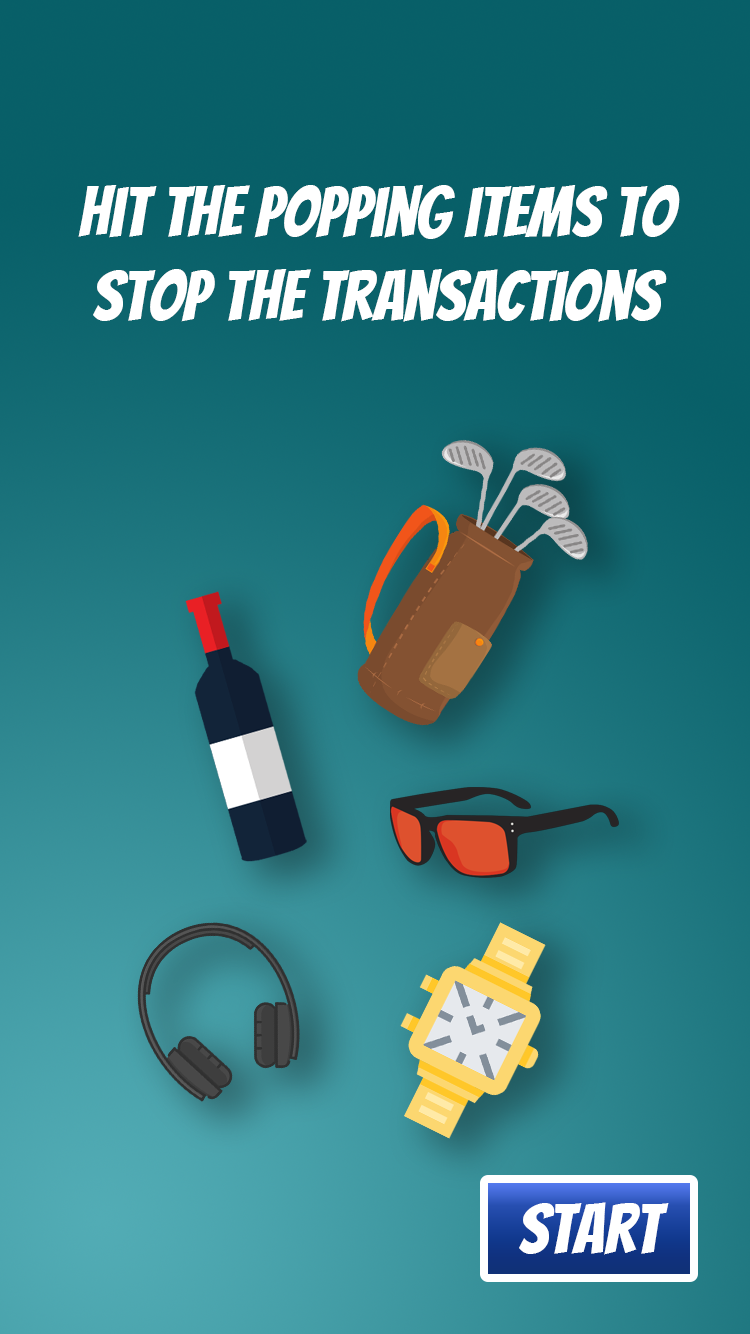
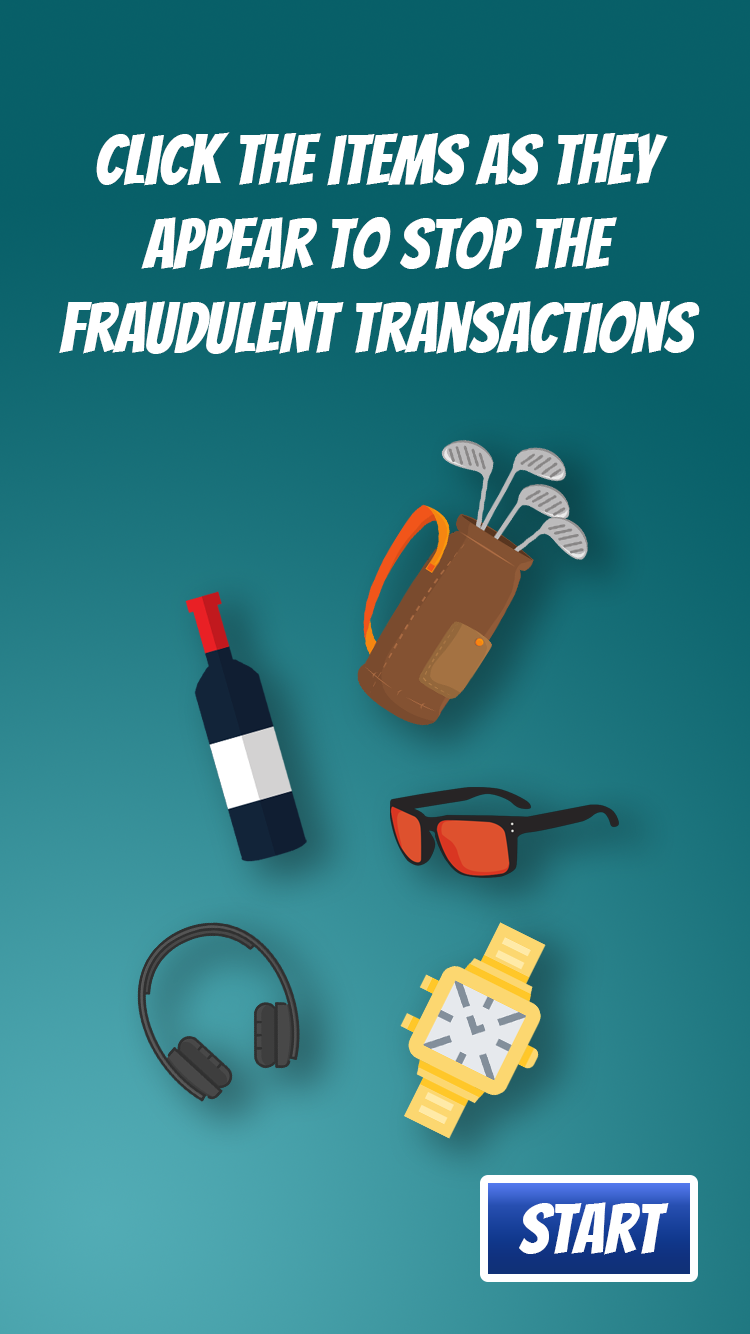
update wack-wack game

Changed region(s): [[0.0613, 0.0922, 0.9507, 0.2766]]

diff --git a/games/wack-wack/game/default/object.js b/games/wack-wack/game/default/object.js
@@ -1,1 +1,1 @@
-pgf.jsonp("object", {"@":"game","version":"0.25","hash":615242744,"title":"wack-a-mole","attributes":{"name":"default name","displaySize":{"width":414,"height":736},"actorTags":"","randomSeed":-1,"adReward":{"name":"","value":0},"playerType":1,"player1 Keymap":{"dpadUp":"","dpadDown":"","dpadLeft":"","dpadRight":"","buttonX":"","buttonY":"","buttonA":"","buttonB":"","start":"","select":"","leftShoulder1":"","rightShoulder1":"","leftShoulder2":"","rightShoulder2":"","leftStickClick":"","rightStickClick":""},"player2 Keymap":{"dpadUp":"","dpadDown":"","dpadLeft":"","dpadRight":"","buttonX":"","buttonY":"","buttonA":"","buttonB":"","start":"","select":"","leftShoulder1":"","rightShoulder1":"","leftShoulder2":"","rightShoulder2":"","leftStickClick":"","rightStickClick":""},"player3 Keymap":{"dpadUp":"","dpadDown":"","dpadLeft":"","dpadRight":"","buttonX":"","buttonY":"","buttonA":"","buttonB":"","start":"","select":"","leftShoulder1":"","rightShoulder1":"","leftShoulder2":"","rightShoulder2":"","leftStickClick":"","rightStickClick":""},"player4 Keymap":{"dpadUp":"","dpadDown":"","dpadLeft":"","dpadRight":"","buttonX":"","buttonY":"","buttonA":"","buttonB":"","start":"","select":"","leftShoulder1":"","rightShoulder1":"","leftShoulder2":"","rightShoulder2":"","leftStickClick":"","rightStickClick":""},"player5 Keymap":{"dpadUp":"","dpadDown":"","dpadLeft":"","dpadRight":"","buttonX":"","buttonY":"","buttonA":"","buttonB":"","start":"","select":"","leftShoulder1":"","rightShoulder1":"","leftShoulder2":"","rightShoulder2":"","leftStickClick":"","rightStickClick":""},"player6 Keymap":{"dpadUp":"","dpadDown":"","dpadLeft":"","dpadRight":"","buttonX":"","buttonY":"","buttonA":"","buttonB":"","start":"","select":"","leftShoulder1":"","rightShoulder1":"","leftShoulder2":"","rightShoulder2":"","leftStickClick":"","rightStickClick":""},"player7 Keymap":{"dpadUp":"","dpadDown":"","dpadLeft":"","dpadRight":"","buttonX":"","buttonY":"","buttonA":"","buttonB":"","start":"","select":"","leftShoulder1":"","rightShoulder1":"","leftShoulder2":"","rightShoulder2":"","leftStickClick":"","rightStickClick":""},"player8 Keymap":{"dpadUp":"","dpadDown":"","dpadLeft":"","dpadRight":"","buttonX":"","buttonY":"","buttonA":"","buttonB":"","start":"","select":"","leftShoulder1":"","rightShoulder1":"","leftShoulder2":"","rightShoulder2":"","leftStickClick":"","rightStickClick":""},"id788321":{"@":"table","name":"PurchaseTable","$":"PurchaseTable"},"id835962":{"@":"integer","name":"Score","$":0},"id379867":{"@":"integer","name":"Timer","$":10}},"resolution":"17","resolutionIndependence":"0","networkEnabled":"0","instructions":"Add game instructions here.","longDescription":"Ready to create the next hit game?  Start here.","prototypes":[{"id":"id152895","hash":725965009,"attributes":{"name":"introBg","position":{"x":0,"y":0},"size":{"width":100,"height":100},"rotation":0,"color":{"red":1,"green":1,"blue":1,"alpha":1},"image":"intro","tags":"","preloadArt":true},"aspects":{"graphics":{"attributes":{"visible":true,"tileWidth":100,"tileHeight":100}},"physics":{"attributes":{"density":1,"friction":3,"restitution":1,"movable":true,"canSleep":true}}},"behaviors":[]},{"id":"id434325","hash":59285516,"attributes":{"name":"introBtn","position":{"x":0,"y":0},"size":{"width":100,"height":100},"rotation":0,"color":{"red":1,"green":1,"blue":1,"alpha":0},"image":"","tags":"","preloadArt":true},"aspects":{"graphics":{"attributes":{"visible":true}},"physics":{"attributes":{"density":1,"friction":3,"restitution":1,"movable":true,"canSleep":true}}},"behaviors":{"class":"RuleBehavior","attributes":{"runOnce":false,"runSequentially":false},"conditions":{"attributes":{"conditionType":0},"predicate":{"type":"touch","conditionType":"pressed"}},"behaviors":{"class":"ChangeSceneAction","attributes":{"sceneKey":"id477121","enableAdvertisement":0,"index":1}}}},{"id":"id242697","hash":1597515503,"attributes":{"name":"instrucBg","position":{"x":0,"y":0},"size":{"width":100,"height":100},"rotation":0,"color":{"red":1,"green":1,"blue":1,"alpha":1},"image":"instructions","tags":"","preloadArt":true},"aspects":{"graphics":{"attributes":{"visible":true,"tileWidth":100,"tileHeight":100}},"physics":{"attributes":{"density":1,"friction":3,"restitution":1,"movable":true,"canSleep":true}}},"behaviors":[]},{"id":"id670901","hash":1340327318,"attributes":{"name":"instrucBtn","position":{"x":0,"y":0},"size":{"width":100,"height":100},"rotation":0,"color":{"red":1,"green":1,"blue":1,"alpha":0},"image":"","tags":"","preloadArt":true},"aspects":{"graphics":{"attributes":{"visible":true}},"physics":{"attributes":{"density":1,"friction":3,"restitution":1,"movable":true,"canSleep":true}}},"behaviors":{"class":"RuleBehavior","attributes":{"runOnce":false,"runSequentially":false},"conditions":{"attributes":{"conditionType":0},"predicate":{"type":"touch","conditionType":"pressed"}},"behaviors":{"class":"ChangeSceneAction","attributes":{"sceneKey":"id269551","enableAdvertisement":0,"index":1}}}},{"id":"id817532","hash":177304833,"attributes":{"name":"gameBg","position":{"x":0,"y":0},"size":{"width":100,"height":100},"rotation":0,"color":{"red":1,"green":1,"blue":1,"alpha":1},"image":"game","tags":"","preloadArt":true},"aspects":{"graphics":{"attributes":{"visible":true,"tileWidth":100,"tileHeight":100}},"physics":{"attributes":{"density":1,"friction":3,"restitution":1,"movable":true,"canSleep":true}}},"behaviors":[]},{"id":"id657996","hash":304947081,"attributes":{"name":"Mole","position":{"x":0,"y":0},"size":{"width":100,"height":100},"rotation":0,"color":{"red":0.99999928474426,"green":0.99997442960739,"blue":0.99999129772186,"alpha":1},"image":"transparent","tags":"","preloadArt":true},"aspects":{"graphics":{"attributes":{"visible":true,"tileWidth":100,"tileHeight":100}},"physics":{"attributes":{"density":1,"friction":3,"restitution":1,"movable":true,"canSleep":true}}},"behaviors":[{"class":"RuleBehavior","attributes":{"runOnce":false,"runSequentially":false},"conditions":{"attributes":{"conditionType":1,"subjectAttribute":"self.attributes.image"},"predicate":{"type":"string","attributes":{"operator":"is","RHS":"transparent"}}},"behaviors":{"class":"TimerBehavior","attributes":{"runOnce":false,"runSequentially":false,"timerType":1,"interval":{"expression":"random(1,4)"},"runToCompletion":false},"behaviors":{"class":"ChangeAttributeAction","attributes":{"targetAttribute":"self.attributes.image","RHS":{"expression":"\"image\"..random(1,5)..\".png\""}}}}},{"class":"RuleBehavior","attributes":{"runOnce":false,"runSequentially":false},"conditions":{"attributes":{"conditionType":1,"subjectAttribute":"self.attributes.image"},"predicate":{"type":"string","attributes":{"operator":"contains","RHS":"image"}}},"behaviors":{"class":"TimerBehavior","attributes":{"runOnce":false,"runSequentially":false,"timerType":1,"interval":{"expression":"random(1,2)"},"runToCompletion":false},"behaviors":{"class":"ChangeImageAction","attributes":{"image":"transparent"}}}},{"class":"RuleBehavior","attributes":{"runOnce":false,"runSequentially":false},"conditions":[{"attributes":{"conditionType":0},"predicate":{"type":"touch","conditionType":"pressed"}},{"attributes":{"conditionType":1,"subjectAttribute":"self.attributes.image"},"predicate":{"type":"string","attributes":{"operator":"contains","RHS":"image"}}}],"behaviors":[{"class":"SpawnAction","attributes":{"prototypeKey":"id989253","direction":0,"directionSpace":0,"x":0,"y":0,"positionSpace":0,"layerOrder":0}},{"class":"ChangeAttributeAction","attributes":{"targetAttribute":"game.attributes.id835962","RHS":{"expression":[{"keypath":"game.attributes.id835962"},"+1"]}}},{"class":"ChangeImageAction","attributes":{"image":"transparent"}}]}]},{"id":"id989253","hash":303880161,"attributes":{"name":"Wack","position":{"x":0,"y":0},"size":{"width":70,"height":70},"rotation":0,"color":{"red":1,"green":1,"blue":1,"alpha":1},"image":"wack","tags":"","preloadArt":true},"aspects":{"graphics":{"attributes":{"visible":true,"tileWidth":70,"tileHeight":70}},"physics":{"attributes":{"density":1,"friction":3,"restitution":1,"movable":true,"canSleep":true}}},"behaviors":{"class":"TimerBehavior","attributes":{"runOnce":false,"runSequentially":false,"timerType":1,"interval":0.1,"runToCompletion":true},"behaviors":{"class":"DestroyAction"}}},{"id":"id519258","hash":521098339,"attributes":{"name":"Score","position":{"x":0,"y":0},"size":{"width":100,"height":100},"rotation":0,"color":{"red":1,"green":1,"blue":1,"alpha":0},"image":"","tags":"","preloadArt":true},"aspects":{"graphics":{"attributes":{"visible":true}},"physics":{"attributes":{"density":1,"friction":3,"restitution":1,"movable":true,"canSleep":true}}},"behaviors":{"class":"DisplayTextBehavior","attributes":{"text":{"expression":{"keypath":"game.attributes.id835962"}},"font":"Cambay","size":56,"alignment":1,"wrap":false,"color":{"red":0.99999928474426,"green":0.99997442960739,"blue":0.99999129772186,"alpha":1},"offsetx":0,"offsety":0,"space":0,"directionSpace":0,"direction":0}}},{"id":"id654461","hash":73775173,"attributes":{"name":"Timer","position":{"x":0,"y":0},"size":{"width":100,"height":100},"rotation":0,"color":{"red":0.99999928474426,"green":0.99997442960739,"blue":0.99999129772186,"alpha":0},"image":"","tags":"","preloadArt":true},"aspects":{"graphics":{"attributes":{"visible":true}},"physics":{"attributes":{"density":1,"friction":3,"restitution":1,"movable":true,"canSleep":true}}},"behaviors":[{"class":"DisplayTextBehavior","attributes":{"text":{"expression":{"keypath":"game.attributes.id379867"}},"font":"Cambay","size":30,"alignment":1,"wrap":false,"color":{"red":0,"green":0,"blue":0,"alpha":1},"offsetx":0,"offsety":0,"space":0,"directionSpace":0,"direction":0}},{"class":"RuleBehavior","attributes":{"runOnce":false,"runSequentially":false},"conditions":{"attributes":{"conditionType":1,"subjectAttribute":"game.attributes.id379867"},"predicate":{"type":"number","attributes":{"operator":">","RHS":0}}},"behaviors":{"class":"TimerBehavior","attributes":{"runOnce":false,"runSequentially":false,"timerType":0,"interval":1,"runToCompletion":true},"behaviors":{"class":"ChangeAttributeAction","attributes":{"targetAttribute":"game.attributes.id379867","RHS":{"expression":[{"keypath":"game.attributes.id379867"},"-1"]}}}},"elseBehaviors":{"class":"ChangeSceneAction","attributes":{"sceneKey":"id562868","enableAdvertisement":0,"index":1}}}]},{"id":"id176731","hash":682750736,"attributes":{"name":"resultBg","position":{"x":0,"y":0},"size":{"width":100,"height":100},"rotation":0,"color":{"red":1,"green":1,"blue":1,"alpha":1},"image":"result","tags":"","preloadArt":true},"aspects":{"graphics":{"attributes":{"visible":true,"tileWidth":100,"tileHeight":100}},"physics":{"attributes":{"density":1,"friction":3,"restitution":1,"movable":true,"canSleep":true}}},"behaviors":[]},{"id":"id437208","hash":607933165,"attributes":{"name":"resultBtn","position":{"x":0,"y":0},"size":{"width":100,"height":100},"rotation":0,"color":{"red":1,"green":1,"blue":1,"alpha":0},"image":"","tags":"","preloadArt":true},"aspects":{"graphics":{"attributes":{"visible":true}},"physics":{"attributes":{"density":1,"friction":3,"restitution":1,"movable":true,"canSleep":true}}},"behaviors":{"class":"RuleBehavior","attributes":{"runOnce":false,"runSequentially":false},"conditions":{"attributes":{"conditionType":0},"predicate":{"type":"touch","conditionType":"pressed"}},"behaviors":{"class":"ChangeSceneAction","attributes":{"sceneKey":"id128372","enableAdvertisement":0,"index":1}}}},{"id":"id782443","hash":503428205,"attributes":{"name":"learningBg","position":{"x":0,"y":0},"size":{"width":100,"height":100},"rotation":0,"color":{"red":1,"green":1,"blue":1,"alpha":1},"image":"learning","tags":"","preloadArt":true},"aspects":{"graphics":{"attributes":{"visible":true,"tileWidth":100,"tileHeight":100}},"physics":{"attributes":{"density":1,"friction":3,"restitution":1,"movable":true,"canSleep":true}}},"behaviors":[]}],"scenes":[{"@":"scene","id":"id849451"},{"@":"scene","id":"id477121"},{"@":"scene","id":"id269551"},{"@":"scene","id":"id562868"},{"@":"scene","id":"id128372"}]});
+pgf.jsonp("object", {"@":"game","version":"0.25","hash":666962834,"title":"wack-a-mole","attributes":{"name":"default name","displaySize":{"width":414,"height":736},"actorTags":"","randomSeed":-1,"adReward":{"name":"","value":0},"playerType":1,"player1 Keymap":{"dpadUp":"","dpadDown":"","dpadLeft":"","dpadRight":"","buttonX":"","buttonY":"","buttonA":"","buttonB":"","start":"","select":"","leftShoulder1":"","rightShoulder1":"","leftShoulder2":"","rightShoulder2":"","leftStickClick":"","rightStickClick":""},"player2 Keymap":{"dpadUp":"","dpadDown":"","dpadLeft":"","dpadRight":"","buttonX":"","buttonY":"","buttonA":"","buttonB":"","start":"","select":"","leftShoulder1":"","rightShoulder1":"","leftShoulder2":"","rightShoulder2":"","leftStickClick":"","rightStickClick":""},"player3 Keymap":{"dpadUp":"","dpadDown":"","dpadLeft":"","dpadRight":"","buttonX":"","buttonY":"","buttonA":"","buttonB":"","start":"","select":"","leftShoulder1":"","rightShoulder1":"","leftShoulder2":"","rightShoulder2":"","leftStickClick":"","rightStickClick":""},"player4 Keymap":{"dpadUp":"","dpadDown":"","dpadLeft":"","dpadRight":"","buttonX":"","buttonY":"","buttonA":"","buttonB":"","start":"","select":"","leftShoulder1":"","rightShoulder1":"","leftShoulder2":"","rightShoulder2":"","leftStickClick":"","rightStickClick":""},"player5 Keymap":{"dpadUp":"","dpadDown":"","dpadLeft":"","dpadRight":"","buttonX":"","buttonY":"","buttonA":"","buttonB":"","start":"","select":"","leftShoulder1":"","rightShoulder1":"","leftShoulder2":"","rightShoulder2":"","leftStickClick":"","rightStickClick":""},"player6 Keymap":{"dpadUp":"","dpadDown":"","dpadLeft":"","dpadRight":"","buttonX":"","buttonY":"","buttonA":"","buttonB":"","start":"","select":"","leftShoulder1":"","rightShoulder1":"","leftShoulder2":"","rightShoulder2":"","leftStickClick":"","rightStickClick":""},"player7 Keymap":{"dpadUp":"","dpadDown":"","dpadLeft":"","dpadRight":"","buttonX":"","buttonY":"","buttonA":"","buttonB":"","start":"","select":"","leftShoulder1":"","rightShoulder1":"","leftShoulder2":"","rightShoulder2":"","leftStickClick":"","rightStickClick":""},"player8 Keymap":{"dpadUp":"","dpadDown":"","dpadLeft":"","dpadRight":"","buttonX":"","buttonY":"","buttonA":"","buttonB":"","start":"","select":"","leftShoulder1":"","rightShoulder1":"","leftShoulder2":"","rightShoulder2":"","leftStickClick":"","rightStickClick":""},"id788321":{"@":"table","name":"PurchaseTable","$":"PurchaseTable"},"id835962":{"@":"integer","name":"Score","$":0},"id379867":{"@":"integer","name":"Timer","$":10}},"resolution":"17","resolutionIndependence":"0","networkEnabled":"0","instructions":"Add game instructions here.","longDescription":"Ready to create the next hit game?  Start here.","prototypes":[{"id":"id152895","hash":1269889624,"attributes":{"name":"introBg","position":{"x":0,"y":0},"size":{"width":100,"height":100},"rotation":0,"color":{"red":1,"green":1,"blue":1,"alpha":1},"image":"intro","tags":"","preloadArt":true},"aspects":{"graphics":{"attributes":{"visible":true,"tileWidth":100,"tileHeight":100}},"physics":{"attributes":{"density":1,"friction":3,"restitution":1,"movable":true,"canSleep":true}}},"behaviors":[]},{"id":"id434325","hash":603210131,"attributes":{"name":"introBtn","position":{"x":0,"y":0},"size":{"width":100,"height":100},"rotation":0,"color":{"red":1,"green":1,"blue":1,"alpha":0},"image":"","tags":"","preloadArt":true},"aspects":{"graphics":{"attributes":{"visible":true}},"physics":{"attributes":{"density":1,"friction":3,"restitution":1,"movable":true,"canSleep":true}}},"behaviors":{"class":"RuleBehavior","attributes":{"runOnce":false,"runSequentially":false},"conditions":{"attributes":{"conditionType":0},"predicate":{"type":"touch","conditionType":"pressed"}},"behaviors":{"class":"ChangeSceneAction","attributes":{"sceneKey":"id477121","enableAdvertisement":0,"index":1}}}},{"id":"id242697","hash":2141440118,"attributes":{"name":"instrucBg","position":{"x":0,"y":0},"size":{"width":100,"height":100},"rotation":0,"color":{"red":1,"green":1,"blue":1,"alpha":1},"image":"instructions","tags":"","preloadArt":true},"aspects":{"graphics":{"attributes":{"visible":true,"tileWidth":100,"tileHeight":100}},"physics":{"attributes":{"density":1,"friction":3,"restitution":1,"movable":true,"canSleep":true}}},"behaviors":[]},{"id":"id670901","hash":1884251933,"attributes":{"name":"instrucBtn","position":{"x":0,"y":0},"size":{"width":100,"height":100},"rotation":0,"color":{"red":1,"green":1,"blue":1,"alpha":0},"image":"","tags":"","preloadArt":true},"aspects":{"graphics":{"attributes":{"visible":true}},"physics":{"attributes":{"density":1,"friction":3,"restitution":1,"movable":true,"canSleep":true}}},"behaviors":{"class":"RuleBehavior","attributes":{"runOnce":false,"runSequentially":false},"conditions":{"attributes":{"conditionType":0},"predicate":{"type":"touch","conditionType":"pressed"}},"behaviors":{"class":"ChangeSceneAction","attributes":{"sceneKey":"id269551","enableAdvertisement":0,"index":1}}}},{"id":"id817532","hash":721229448,"attributes":{"name":"gameBg","position":{"x":0,"y":0},"size":{"width":100,"height":100},"rotation":0,"color":{"red":1,"green":1,"blue":1,"alpha":1},"image":"game","tags":"","preloadArt":true},"aspects":{"graphics":{"attributes":{"visible":true,"tileWidth":100,"tileHeight":100}},"physics":{"attributes":{"density":1,"friction":3,"restitution":1,"movable":true,"canSleep":true}}},"behaviors":[]},{"id":"id657996","hash":848871696,"attributes":{"name":"Mole","position":{"x":0,"y":0},"size":{"width":100,"height":100},"rotation":0,"color":{"red":0.99999928474426,"green":0.99997442960739,"blue":0.99999129772186,"alpha":1},"image":"transparent","tags":"","preloadArt":true},"aspects":{"graphics":{"attributes":{"visible":true,"tileWidth":100,"tileHeight":100}},"physics":{"attributes":{"density":1,"friction":3,"restitution":1,"movable":true,"canSleep":true}}},"behaviors":[{"class":"RuleBehavior","attributes":{"runOnce":false,"runSequentially":false},"conditions":{"attributes":{"conditionType":1,"subjectAttribute":"self.attributes.image"},"predicate":{"type":"string","attributes":{"operator":"is","RHS":"transparent"}}},"behaviors":{"class":"TimerBehavior","attributes":{"runOnce":false,"runSequentially":false,"timerType":1,"interval":{"expression":"random(1,4)"},"runToCompletion":false},"behaviors":{"class":"ChangeAttributeAction","attributes":{"targetAttribute":"self.attributes.image","RHS":{"expression":"\"image\"..random(1,5)..\".png\""}}}}},{"class":"RuleBehavior","attributes":{"runOnce":false,"runSequentially":false},"conditions":{"attributes":{"conditionType":1,"subjectAttribute":"self.attributes.image"},"predicate":{"type":"string","attributes":{"operator":"contains","RHS":"image"}}},"behaviors":{"class":"TimerBehavior","attributes":{"runOnce":false,"runSequentially":false,"timerType":1,"interval":{"expression":"random(1,2)"},"runToCompletion":false},"behaviors":{"class":"ChangeImageAction","attributes":{"image":"transparent"}}}},{"class":"RuleBehavior","attributes":{"runOnce":false,"runSequentially":false},"conditions":[{"attributes":{"conditionType":0},"predicate":{"type":"touch","conditionType":"pressed"}},{"attributes":{"conditionType":1,"subjectAttribute":"self.attributes.image"},"predicate":{"type":"string","attributes":{"operator":"contains","RHS":"image"}}}],"behaviors":[{"class":"SpawnAction","attributes":{"prototypeKey":"id989253","direction":0,"directionSpace":0,"x":0,"y":0,"positionSpace":0,"layerOrder":0}},{"class":"ChangeAttributeAction","attributes":{"targetAttribute":"game.attributes.id835962","RHS":{"expression":[{"keypath":"game.attributes.id835962"},"+1"]}}},{"class":"ChangeImageAction","attributes":{"image":"transparent"}}]}]},{"id":"id989253","hash":847804776,"attributes":{"name":"Wack","position":{"x":0,"y":0},"size":{"width":70,"height":70},"rotation":0,"color":{"red":1,"green":1,"blue":1,"alpha":1},"image":"wack","tags":"","preloadArt":true},"aspects":{"graphics":{"attributes":{"visible":true,"tileWidth":70,"tileHeight":70}},"physics":{"attributes":{"density":1,"friction":3,"restitution":1,"movable":true,"canSleep":true}}},"behaviors":{"class":"TimerBehavior","attributes":{"runOnce":false,"runSequentially":false,"timerType":1,"interval":0.1,"runToCompletion":true},"behaviors":{"class":"DestroyAction"}}},{"id":"id519258","hash":1065022954,"attributes":{"name":"Score","position":{"x":0,"y":0},"size":{"width":100,"height":100},"rotation":0,"color":{"red":1,"green":1,"blue":1,"alpha":0},"image":"","tags":"","preloadArt":true},"aspects":{"graphics":{"attributes":{"visible":true}},"physics":{"attributes":{"density":1,"friction":3,"restitution":1,"movable":true,"canSleep":true}}},"behaviors":{"class":"DisplayTextBehavior","attributes":{"text":{"expression":{"keypath":"game.attributes.id835962"}},"font":"Cambay","size":56,"alignment":1,"wrap":false,"color":{"red":0.99999928474426,"green":0.99997442960739,"blue":0.99999129772186,"alpha":1},"offsetx":0,"offsety":0,"space":0,"directionSpace":0,"direction":0}}},{"id":"id654461","hash":617699788,"attributes":{"name":"Timer","position":{"x":0,"y":0},"size":{"width":100,"height":100},"rotation":0,"color":{"red":0.99999928474426,"green":0.99997442960739,"blue":0.99999129772186,"alpha":0},"image":"","tags":"","preloadArt":true},"aspects":{"graphics":{"attributes":{"visible":true}},"physics":{"attributes":{"density":1,"friction":3,"restitution":1,"movable":true,"canSleep":true}}},"behaviors":[{"class":"DisplayTextBehavior","attributes":{"text":{"expression":{"keypath":"game.attributes.id379867"}},"font":"Cambay","size":30,"alignment":1,"wrap":false,"color":{"red":0,"green":0,"blue":0,"alpha":1},"offsetx":0,"offsety":0,"space":0,"directionSpace":0,"direction":0}},{"class":"RuleBehavior","attributes":{"runOnce":false,"runSequentially":false},"conditions":{"attributes":{"conditionType":1,"subjectAttribute":"game.attributes.id379867"},"predicate":{"type":"number","attributes":{"operator":">","RHS":0}}},"behaviors":{"class":"TimerBehavior","attributes":{"runOnce":false,"runSequentially":false,"timerType":0,"interval":1,"runToCompletion":true},"behaviors":{"class":"ChangeAttributeAction","attributes":{"targetAttribute":"game.attributes.id379867","RHS":{"expression":[{"keypath":"game.attributes.id379867"},"-1"]}}}},"elseBehaviors":{"class":"ChangeSceneAction","attributes":{"sceneKey":"id562868","enableAdvertisement":0,"index":1}}}]},{"id":"id176731","hash":1226675351,"attributes":{"name":"resultBg","position":{"x":0,"y":0},"size":{"width":100,"height":100},"rotation":0,"color":{"red":1,"green":1,"blue":1,"alpha":1},"image":"result","tags":"","preloadArt":true},"aspects":{"graphics":{"attributes":{"visible":true,"tileWidth":100,"tileHeight":100}},"physics":{"attributes":{"density":1,"friction":3,"restitution":1,"movable":true,"canSleep":true}}},"behaviors":[]},{"id":"id437208","hash":1151857780,"attributes":{"name":"resultBtn","position":{"x":0,"y":0},"size":{"width":100,"height":100},"rotation":0,"color":{"red":1,"green":1,"blue":1,"alpha":0},"image":"","tags":"","preloadArt":true},"aspects":{"graphics":{"attributes":{"visible":true}},"physics":{"attributes":{"density":1,"friction":3,"restitution":1,"movable":true,"canSleep":true}}},"behaviors":{"class":"RuleBehavior","attributes":{"runOnce":false,"runSequentially":false},"conditions":{"attributes":{"conditionType":0},"predicate":{"type":"touch","conditionType":"pressed"}},"behaviors":{"class":"ChangeSceneAction","attributes":{"sceneKey":"id128372","enableAdvertisement":0,"index":1}}}},{"id":"id782443","hash":1047352820,"attributes":{"name":"learningBg","position":{"x":0,"y":0},"size":{"width":100,"height":100},"rotation":0,"color":{"red":1,"green":1,"blue":1,"alpha":1},"image":"learning","tags":"","preloadArt":true},"aspects":{"graphics":{"attributes":{"visible":true,"tileWidth":100,"tileHeight":100}},"physics":{"attributes":{"density":1,"friction":3,"restitution":1,"movable":true,"canSleep":true}}},"behaviors":[]},{"id":"id575308","hash":1761437850,"attributes":{"name":"learningBtn","position":{"x":0,"y":0},"size":{"width":100,"height":100},"rotation":0,"color":{"red":1,"green":1,"blue":1,"alpha":0},"image":"","tags":"","preloadArt":true},"aspects":{"graphics":{"attributes":{"visible":true}},"physics":{"attributes":{"density":1,"friction":3,"restitution":1,"movable":true,"canSleep":true}}},"behaviors":{"class":"RuleBehavior","attributes":{"runOnce":false,"runSequentially":false},"conditions":{"attributes":{"conditionType":0},"predicate":{"type":"touch","conditionType":"pressed"}},"behaviors":[{"class":"OpenURLAction","attributes":{"URL":"www.stgeorge.com.au/online-services/internet-banking/features-benefits/sms-email-alerts","useExternalBrowser":true,"protocol":2}},{"class":"TimerBehavior","attributes":{"runOnce":false,"runSequentially":false,"timerType":1,"interval":1,"runToCompletion":true},"behaviors":{"class":"ChangeSceneAction","attributes":{"sceneKey":"next","enableAdvertisement":1,"index":1}}}]}},{"id":"id954937","hash":1928042839,"attributes":{"name":"end","position":{"x":0,"y":0},"size":{"width":750,"height":1334},"rotation":0,"color":{"red":1,"green":1,"blue":1,"alpha":1},"image":"end","tags":"","preloadArt":true},"aspects":{"graphics":{"attributes":{"visible":true,"tileWidth":750,"tileHeight":1334}},"physics":{"attributes":{"density":1,"friction":3,"restitution":1,"movable":true,"canSleep":true}}},"behaviors":[]},{"id":"id311049","hash":1612751764,"attributes":{"name":"playAgainBtn","position":{"x":0,"y":0},"size":{"width":100,"height":100},"rotation":0,"color":{"red":1,"green":1,"blue":1,"alpha":0},"image":"","tags":"","preloadArt":true},"aspects":{"graphics":{"attributes":{"visible":true}},"physics":{"attributes":{"density":1,"friction":3,"restitution":1,"movable":true,"canSleep":true}}},"behaviors":{"class":"RuleBehavior","attributes":{"runOnce":false,"runSequentially":false},"conditions":{"attributes":{"conditionType":0},"predicate":{"type":"touch","conditionType":"pressed"}},"behaviors":{"class":"ResetGameAction","attributes":{"enableAdvertisement":0}}}},{"id":"id714071","hash":759858178,"attributes":{"name":"backToGamesBtn","position":{"x":0,"y":0},"size":{"width":100,"height":100},"rotation":0,"color":{"red":1,"green":1,"blue":1,"alpha":0},"image":"","tags":"","preloadArt":true},"aspects":{"graphics":{"attributes":{"visible":true}},"physics":{"attributes":{"density":1,"friction":3,"restitution":1,"movable":true,"canSleep":true}}},"behaviors":{"class":"RuleBehavior","attributes":{"runOnce":false,"runSequentially":false},"conditions":{"attributes":{"conditionType":0},"predicate":{"type":"touch","conditionType":"pressed"}},"behaviors":{"class":"OpenURLAction","attributes":{"URL":"digitalsolutions-lab.github.io/games.html#digipal","useExternalBrowser":true,"protocol":2}}}}],"scenes":[{"@":"scene","id":"id849451"},{"@":"scene","id":"id477121"},{"@":"scene","id":"id269551"},{"@":"scene","id":"id562868"},{"@":"scene","id":"id128372"},{"@":"scene","id":"id710999"}]});

diff --git a/games/wack-wack/game/default/scenes/3.js b/games/wack-wack/game/default/scenes/3.js
@@ -1,1 +1,1 @@
-pgf.jsonp("scenes/3", {"@":"scene","id":"id269551","version":"0.25","hash":606394951,"attributes":{"name":"Game","size":{"width":414,"height":736},"wrapX":false,"wrapY":false,"gravity":{"x":0,"y":0},"color":{"red":0.55,"green":0.36609655618668,"blue":0.32406401634216,"alpha":1},"camera":{"origin":{"x":0,"y":0},"size":{"width":414,"height":736},"trackingArea":{"width":334,"height":656},"rotation":0},"autorotate":{"landscapeLeft":false,"portrait":true,"landscapeRight":false,"portraitUpsideDown":false}},"layers":{"id":"id112326","attributes":{"name":"Background","scrollable":true},"actors":[{"id":"id330247","prototype":"id817532","attributes":{"position":{"x":206.5,"y":368.5},"size":{"width":417,"height":737}}},{"id":"id550315","prototype":"id654461","attributes":{"position":{"x":131,"y":240}},"aspects":{"graphics":{"attributes":{"tileWidth":100,"tileHeight":100}}}},{"id":"id525383","prototype":"id657996","attributes":{"position":{"x":327,"y":386}}},{"id":"id151199","prototype":"id657996","attributes":{"position":{"x":106,"y":379}}},{"id":"id824243","prototype":"id657996","attributes":{"position":{"x":325,"y":490}}},{"id":"id255564","prototype":"id657996","attributes":{"position":{"x":206,"y":491}}},{"id":"id357854","prototype":"id657996","attributes":{"position":{"x":90,"y":490}}},{"id":"id212918","prototype":"id657996","attributes":{"position":{"x":89,"y":649}}},{"id":"id409768","prototype":"id657996","attributes":{"position":{"x":200,"y":648}}},{"id":"id413905","prototype":"id657996","attributes":{"position":{"x":326,"y":647}}}]}});
+pgf.jsonp("scenes/3", {"@":"scene","id":"id269551","version":"0.25","hash":1150319566,"attributes":{"name":"Game","size":{"width":414,"height":736},"wrapX":false,"wrapY":false,"gravity":{"x":0,"y":0},"color":{"red":0.55,"green":0.36609655618668,"blue":0.32406401634216,"alpha":1},"camera":{"origin":{"x":0,"y":0},"size":{"width":414,"height":736},"trackingArea":{"width":334,"height":656},"rotation":0},"autorotate":{"landscapeLeft":false,"portrait":true,"landscapeRight":false,"portraitUpsideDown":false}},"layers":{"id":"id112326","attributes":{"name":"Background","scrollable":true},"actors":[{"id":"id330247","prototype":"id817532","attributes":{"position":{"x":206.5,"y":368.5},"size":{"width":417,"height":737}}},{"id":"id550315","prototype":"id654461","attributes":{"position":{"x":131,"y":240}},"aspects":{"graphics":{"attributes":{"tileWidth":100,"tileHeight":100}}}},{"id":"id525383","prototype":"id657996","attributes":{"position":{"x":327,"y":386}}},{"id":"id151199","prototype":"id657996","attributes":{"position":{"x":106,"y":379}}},{"id":"id824243","prototype":"id657996","attributes":{"position":{"x":325,"y":490}}},{"id":"id255564","prototype":"id657996","attributes":{"position":{"x":206,"y":491}}},{"id":"id357854","prototype":"id657996","attributes":{"position":{"x":90,"y":490}}},{"id":"id212918","prototype":"id657996","attributes":{"position":{"x":89,"y":649}}},{"id":"id409768","prototype":"id657996","attributes":{"position":{"x":200,"y":648}}},{"id":"id413905","prototype":"id657996","attributes":{"position":{"x":326,"y":647}}}]}});

diff --git a/games/wack-wack/game/default/assets.js b/games/wack-wack/game/default/assets.js
@@ -1,1 +1,1 @@
-pgf.jsonp("assets", {"@":"assets","version":"0.25","images":[{"name":"instructions","files":{"name":"1.png","size":751308}},{"name":"result","files":{"name":"2.png","size":690383}},{"name":"image2","files":{"name":"3.png","size":12409}},{"name":"intro","files":{"name":"4.png","size":773880}},{"name":"transparent","files":{"name":"5.png","size":1078}},{"name":"image3","files":{"name":"6.png","size":30052}},{"name":"shops","files":{"name":"7.png","size":469770}},{"name":"button-play","files":{"name":"8.png","size":3758}},{"name":"learning","files":{"name":"9.png","size":683049}},{"name":"wack","files":{"name":"10.png","size":11600}},{"name":"game","files":{"name":"11.png","size":752763}},{"name":"splash-text","files":{"name":"12.png","size":9687}},{"name":"thief","files":{"name":"13.png","size":59451}},{"name":"image4","files":{"name":"14.png","size":8664}},{"name":"image5","files":{"name":"15.png","size":23268}},{"name":"congrats","files":{"name":"16.png","size":10803}},{"name":"image1","files":{"name":"17.png","size":17201}}],"fonts":{"name":"Cambay","files":{"name":"Cambay-Regular.ttf","size":null}},"behaviors":[]});
+pgf.jsonp("assets", {"@":"assets","version":"0.25","images":[{"name":"instructions","files":{"name":"1.png","size":752800}},{"name":"result","files":{"name":"2.png","size":693871}},{"name":"image2","files":{"name":"3.png","size":12409}},{"name":"intro","files":{"name":"4.png","size":773880}},{"name":"transparent","files":{"name":"5.png","size":1078}},{"name":"image3","files":{"name":"6.png","size":30052}},{"name":"end","files":{"name":"7.png","size":680838}},{"name":"shops","files":{"name":"8.png","size":469770}},{"name":"button-play","files":{"name":"9.png","size":3758}},{"name":"learning","files":{"name":"10.png","size":694292}},{"name":"wack","files":{"name":"11.png","size":11600}},{"name":"game","files":{"name":"12.png","size":752763}},{"name":"splash-text","files":{"name":"13.png","size":9687}},{"name":"thief","files":{"name":"14.png","size":59451}},{"name":"image4","files":{"name":"15.png","size":8664}},{"name":"image5","files":{"name":"16.png","size":23268}},{"name":"congrats","files":{"name":"17.png","size":10803}},{"name":"image1","files":{"name":"18.png","size":17201}}],"fonts":{"name":"Cambay","files":{"name":"Cambay-Regular.ttf","size":null}},"behaviors":[]});

diff --git a/games/wack-wack/game/default/scenes/4.js b/games/wack-wack/game/default/scenes/4.js
@@ -1,1 +1,1 @@
-pgf.jsonp("scenes/4", {"@":"scene","id":"id562868","version":"0.25","hash":395759540,"attributes":{"name":"Finish","size":{"width":414,"height":736},"wrapX":false,"wrapY":false,"gravity":{"x":0,"y":0},"color":{"red":0.55,"green":0.36609655618668,"blue":0.32406401634216,"alpha":1},"camera":{"origin":{"x":0,"y":0},"size":{"width":414,"height":736},"trackingArea":{"width":334,"height":656},"rotation":0},"autorotate":{"landscapeLeft":false,"portrait":true,"landscapeRight":false,"portraitUpsideDown":false}},"layers":{"id":"id112326","attributes":{"name":"Background","scrollable":true},"actors":[{"id":"id320045","prototype":"id176731","attributes":{"position":{"x":206.5,"y":368},"size":{"width":417,"height":738}}},{"id":"id290250","prototype":"id519258","attributes":{"position":{"x":209,"y":521}},"aspects":{"graphics":{"attributes":{"tileWidth":100,"tileHeight":100}}}},{"id":"id522125","prototype":"id437208","attributes":{"position":{"x":201.5,"y":101},"size":{"width":247,"height":58}},"aspects":{"graphics":{"attributes":{"tileWidth":100,"tileHeight":100}}}}]}});
+pgf.jsonp("scenes/4", {"@":"scene","id":"id562868","version":"0.25","hash":939684155,"attributes":{"name":"Finish","size":{"width":414,"height":736},"wrapX":false,"wrapY":false,"gravity":{"x":0,"y":0},"color":{"red":0.55,"green":0.36609655618668,"blue":0.32406401634216,"alpha":1},"camera":{"origin":{"x":0,"y":0},"size":{"width":414,"height":736},"trackingArea":{"width":334,"height":656},"rotation":0},"autorotate":{"landscapeLeft":false,"portrait":true,"landscapeRight":false,"portraitUpsideDown":false}},"layers":{"id":"id112326","attributes":{"name":"Background","scrollable":true},"actors":[{"id":"id320045","prototype":"id176731","attributes":{"position":{"x":206.5,"y":368},"size":{"width":417,"height":738}}},{"id":"id290250","prototype":"id519258","attributes":{"position":{"x":209,"y":521}},"aspects":{"graphics":{"attributes":{"tileWidth":100,"tileHeight":100}}}},{"id":"id522125","prototype":"id437208","attributes":{"position":{"x":201.5,"y":101},"size":{"width":247,"height":58}},"aspects":{"graphics":{"attributes":{"tileWidth":100,"tileHeight":100}}}}]}});

diff --git a/games/wack-wack/game/default/scenes/2.js b/games/wack-wack/game/default/scenes/2.js
@@ -1,1 +1,1 @@
-pgf.jsonp("scenes/2", {"@":"scene","id":"id477121","version":"0.25","hash":1879360231,"attributes":{"name":"Instructions","size":{"width":414,"height":736},"wrapX":false,"wrapY":false,"gravity":{"x":0,"y":0},"color":{"red":0,"green":0,"blue":0,"alpha":1},"camera":{"origin":{"x":0,"y":0},"size":{"width":414,"height":736},"trackingArea":{"width":334,"height":656},"rotation":0},"autorotate":{"landscapeLeft":true,"portrait":false,"landscapeRight":false,"portraitUpsideDown":false}},"layers":{"id":"id157480","attributes":{"name":"Background","scrollable":true},"actors":[{"id":"id860952","prototype":"id242697","attributes":{"position":{"x":206.5,"y":368.5},"size":{"width":417,"height":739}}},{"id":"id952763","prototype":"id670901","attributes":{"position":{"x":326.5,"y":57.5},"size":{"width":123,"height":61}},"aspects":{"graphics":{"attributes":{"tileWidth":100,"tileHeight":100}}}}]}});
+pgf.jsonp("scenes/2", {"@":"scene","id":"id477121","version":"0.25","hash":275801198,"attributes":{"name":"Instructions","size":{"width":414,"height":736},"wrapX":false,"wrapY":false,"gravity":{"x":0,"y":0},"color":{"red":0,"green":0,"blue":0,"alpha":1},"camera":{"origin":{"x":0,"y":0},"size":{"width":414,"height":736},"trackingArea":{"width":334,"height":656},"rotation":0},"autorotate":{"landscapeLeft":true,"portrait":false,"landscapeRight":false,"portraitUpsideDown":false}},"layers":{"id":"id157480","attributes":{"name":"Background","scrollable":true},"actors":[{"id":"id860952","prototype":"id242697","attributes":{"position":{"x":206.5,"y":368.5},"size":{"width":417,"height":739}}},{"id":"id952763","prototype":"id670901","attributes":{"position":{"x":326.5,"y":57.5},"size":{"width":123,"height":61}},"aspects":{"graphics":{"attributes":{"tileWidth":100,"tileHeight":100}}}}]}});

diff --git a/games/wack-wack/game/default/scenes/1.js b/games/wack-wack/game/default/scenes/1.js
@@ -1,1 +1,1 @@
-pgf.jsonp("scenes/1", {"@":"scene","id":"id849451","version":"0.25","hash":1798441854,"attributes":{"name":"Intro","size":{"width":414,"height":736},"wrapX":false,"wrapY":false,"gravity":{"x":0,"y":0},"color":{"red":0,"green":0,"blue":0,"alpha":1},"camera":{"origin":{"x":0,"y":0},"size":{"width":414,"height":736},"trackingArea":{"width":334,"height":656},"rotation":0},"autorotate":{"landscapeLeft":false,"portrait":true,"landscapeRight":false,"portraitUpsideDown":false}},"layers":{"id":"id112326","attributes":{"name":"Background","scrollable":true},"actors":[{"id":"id644009","prototype":"id152895","attributes":{"position":{"x":206.5,"y":368.5},"size":{"width":417,"height":739}}},{"id":"id489508","prototype":"id434325","attributes":{"position":{"x":326,"y":57},"size":{"width":124,"height":62}},"aspects":{"graphics":{"attributes":{"tileWidth":100,"tileHeight":100}}}}]}});
+pgf.jsonp("scenes/1", {"@":"scene","id":"id849451","version":"0.25","hash":194882821,"attributes":{"name":"Intro","size":{"width":414,"height":736},"wrapX":false,"wrapY":false,"gravity":{"x":0,"y":0},"color":{"red":0,"green":0,"blue":0,"alpha":1},"camera":{"origin":{"x":0,"y":0},"size":{"width":414,"height":736},"trackingArea":{"width":334,"height":656},"rotation":0},"autorotate":{"landscapeLeft":false,"portrait":true,"landscapeRight":false,"portraitUpsideDown":false}},"layers":{"id":"id112326","attributes":{"name":"Background","scrollable":true},"actors":[{"id":"id644009","prototype":"id152895","attributes":{"position":{"x":206.5,"y":368.5},"size":{"width":417,"height":739}}},{"id":"id489508","prototype":"id434325","attributes":{"position":{"x":326,"y":57},"size":{"width":124,"height":62}},"aspects":{"graphics":{"attributes":{"tileWidth":100,"tileHeight":100}}}}]}});

diff --git a/games/wack-wack/game/default/scenes/5.js b/games/wack-wack/game/default/scenes/5.js
@@ -1,1 +1,1 @@
-pgf.jsonp("scenes/5", {"@":"scene","id":"id128372","version":"0.25","hash":2090028866,"attributes":{"name":"Learning","size":{"width":414,"height":736},"wrapX":false,"wrapY":false,"gravity":{"x":0,"y":0},"color":{"red":0,"green":0,"blue":0,"alpha":1},"camera":{"origin":{"x":0,"y":0},"size":{"width":414,"height":736},"trackingArea":{"width":334,"height":656},"rotation":0},"autorotate":{"landscapeLeft":true,"portrait":false,"landscapeRight":false,"portraitUpsideDown":false}},"layers":{"id":"id282443","attributes":{"name":"Background","scrollable":true},"actors":{"id":"id809157","prototype":"id782443","attributes":{"position":{"x":207,"y":367},"size":{"width":418,"height":740}}}}});
+pgf.jsonp("scenes/5", {"@":"scene","id":"id128372","version":"0.25","hash":486469833,"attributes":{"name":"Learning","size":{"width":414,"height":736},"wrapX":false,"wrapY":false,"gravity":{"x":0,"y":0},"color":{"red":0,"green":0,"blue":0,"alpha":1},"camera":{"origin":{"x":0,"y":0},"size":{"width":414,"height":736},"trackingArea":{"width":334,"height":656},"rotation":0},"autorotate":{"landscapeLeft":true,"portrait":false,"landscapeRight":false,"portraitUpsideDown":false}},"layers":{"id":"id282443","attributes":{"name":"Background","scrollable":true},"actors":[{"id":"id809157","prototype":"id782443","attributes":{"position":{"x":207,"y":367},"size":{"width":418,"height":740},"rotation":0}},{"id":"id783366","prototype":"id575308","attributes":{"position":{"x":201.5,"y":99},"size":{"width":251,"height":62}},"aspects":{"graphics":{"attributes":{"tileWidth":100,"tileHeight":100}}}}]}});

diff --git a/games/wack-wack/game/default/scenes/6.js b/games/wack-wack/game/default/scenes/6.js
@@ -1,0 +1,1 @@
+pgf.jsonp("scenes/6", {"@":"scene","id":"id710999","version":"0.25","hash":1093334485,"attributes":{"name":"End","size":{"width":414,"height":736},"wrapX":false,"wrapY":false,"gravity":{"x":0,"y":0},"color":{"red":0,"green":0,"blue":0,"alpha":1},"camera":{"origin":{"x":0,"y":0},"size":{"width":414,"height":736},"trackingArea":{"width":334,"height":656},"rotation":0},"autorotate":{"landscapeLeft":true,"portrait":false,"landscapeRight":false,"portraitUpsideDown":false}},"layers":{"id":"id348290","attributes":{"name":"Background","scrollable":true},"actors":[{"id":"id539008","prototype":"id954937","attributes":{"position":{"x":207.5,"y":368},"size":{"width":415,"height":738}}},{"id":"id436691","prototype":"id311049","attributes":{"position":{"x":188.5,"y":491},"size":{"width":285,"height":108}},"aspects":{"graphics":{"attributes":{"tileWidth":100,"tileHeight":100}}}},{"id":"id947521","prototype":"id714071","attributes":{"position":{"x":208.5,"y":234.5},"size":{"width":247,"height":137}},"aspects":{"graphics":{"attributes":{"tileWidth":100,"tileHeight":100}}}}]}});
